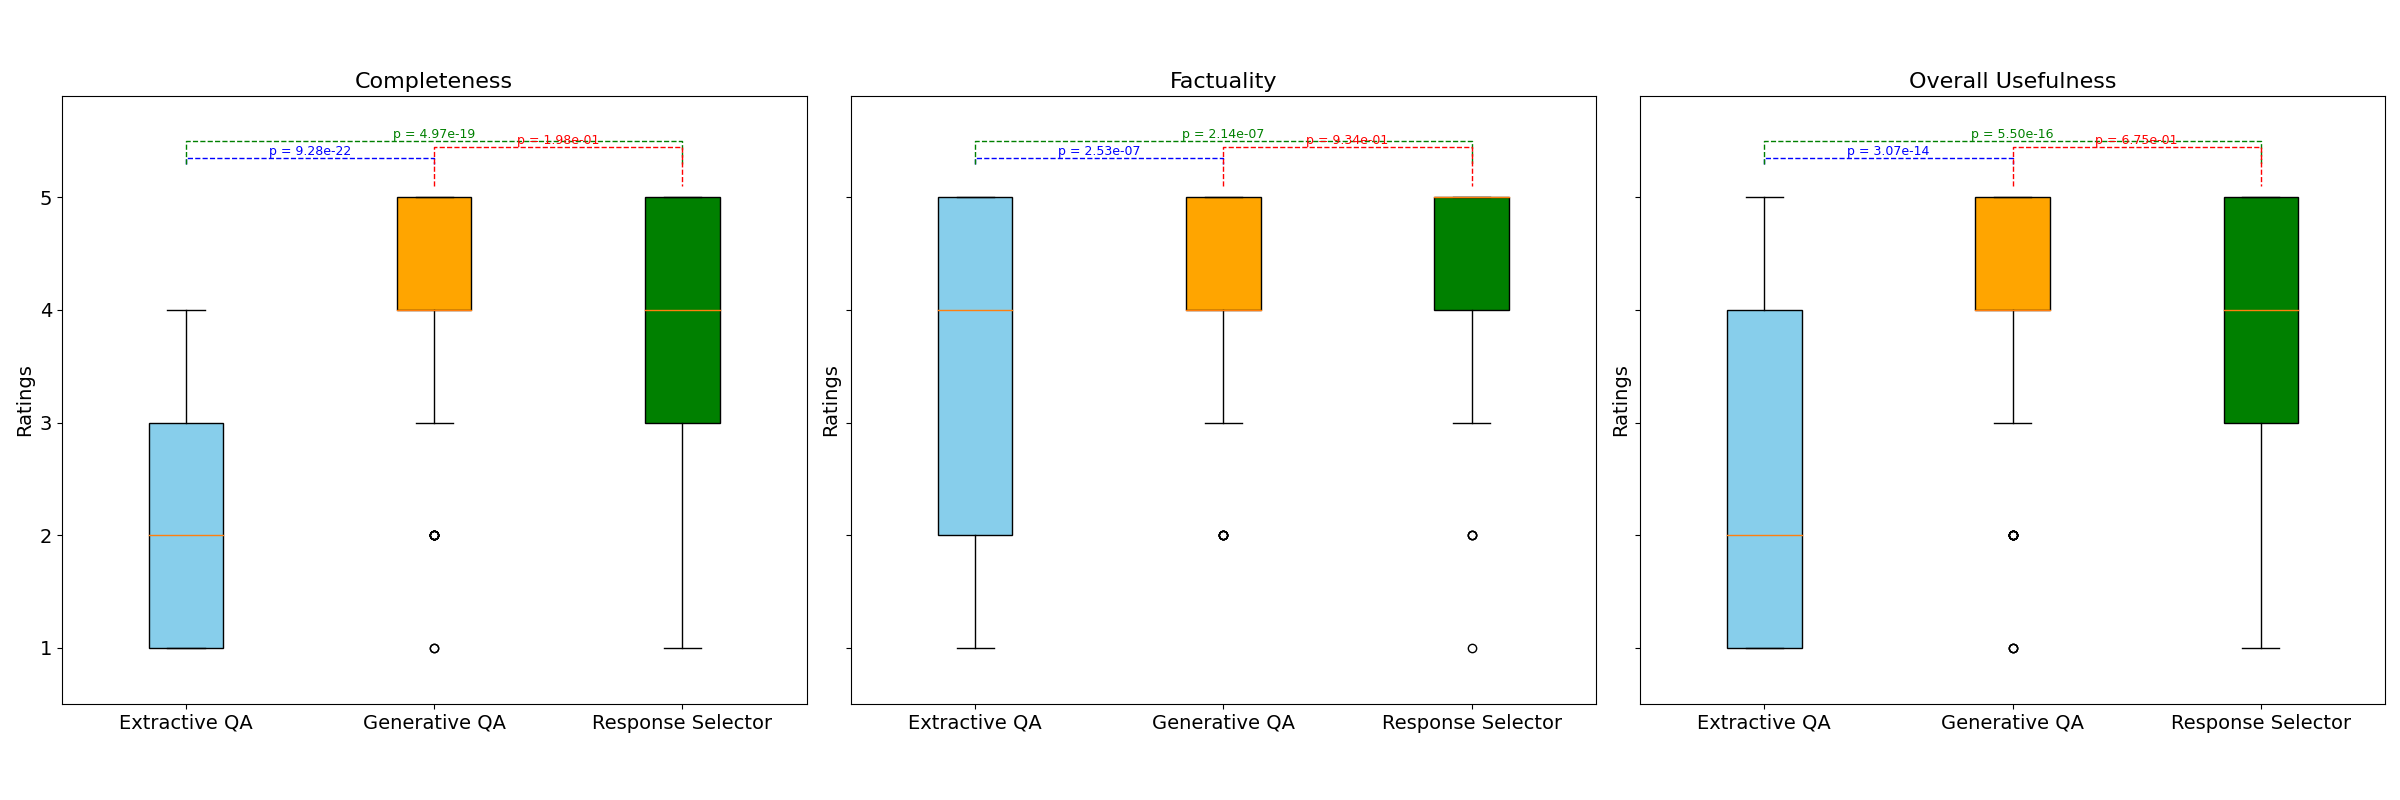
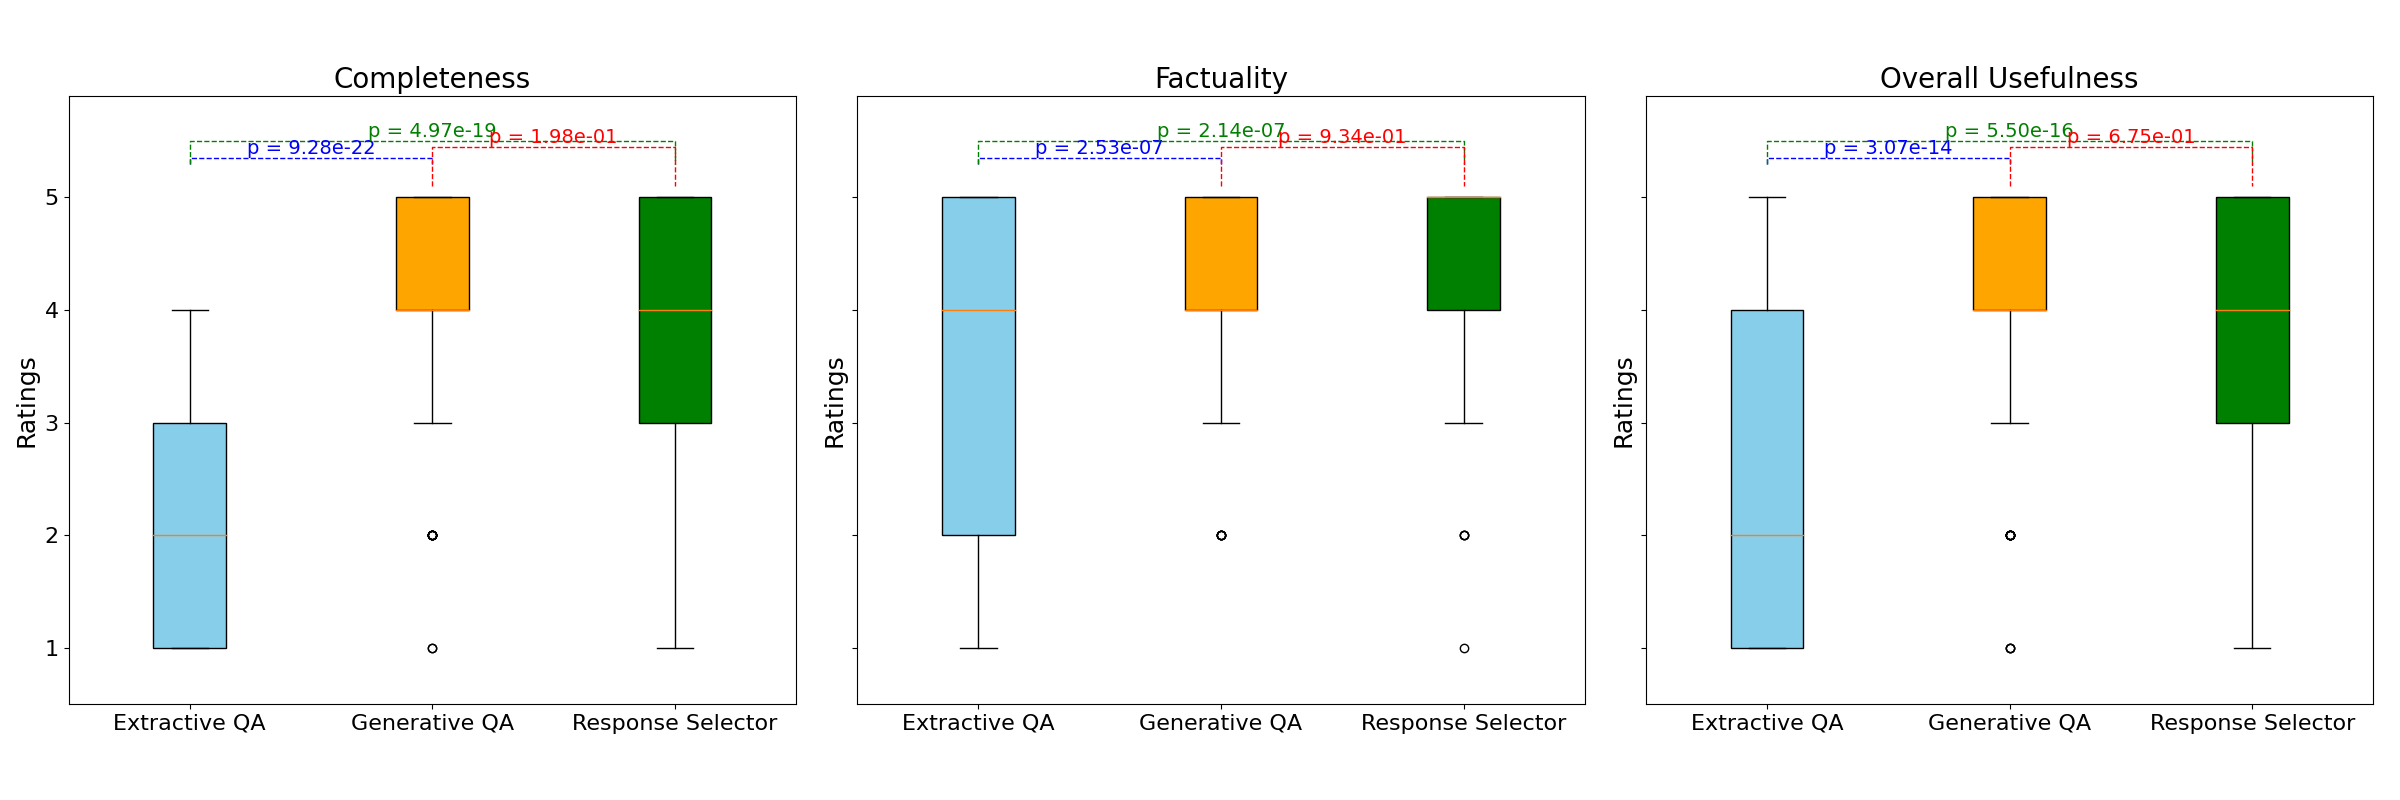
made plots bigger

diff --git a/analyze_results/visualize_results.py b/analyze_results/visualize_results.py
@@ -7,13 +7,13 @@ def load_result_file(filepath):
     return pd.read_csv(filepath)
 
 # Function to annotate p-values with vertical offsets to prevent overlap
-def annotate_p_values(axes, x1, x2, y, p_val, offset=0, line_color='black', text_color='black'):
+def annotate_p_values(axes, x1, x2, y, p_val, offset=0, line_color='black', text_color='black', fontsize=12):
     """Helper function to annotate p-values on the plot with adjustable offset and line color."""
     h = 0.05 + offset  # Adjust the height dynamically with offset
     line_style = {'lw': 1, 'color': line_color, 'linestyle': '--'}  # More discreet lines
     axes.plot([x1, x1, x2, x2], [y, y+h, y+h, y], **line_style)  # draw the line between boxplots
-    # annotate p-value, adjusting color
-    axes.text((x1+x2)*0.5, y+h, f'p = {p_val:.2e}', ha='center', va='bottom', color=text_color, fontsize=9)  # smaller font
+    # annotate p-value, adjusting color and font size
+    axes.text((x1+x2)*0.5, y+h, f'p = {p_val:.2e}', ha='center', va='bottom', color=text_color, fontsize=fontsize)  # Increased font size for p-value
 
 def plot_box_plots(df, category):
     # Filter data for the given category
@@ -57,28 +57,31 @@ def plot_box_plots(df, category):
 
         # Set title and labels with increased font size
         title = "Overall Usefulness" if aspect == "usefulness" else aspect.capitalize()
-        axes[i].set_title(f'{title}', fontsize=16)  # Increase title font size
-        axes[i].set_ylabel('Ratings', fontsize=14)  # Increase y-axis label font size
-        axes[i].tick_params(axis='both', which='major', labelsize=14)  # Increase tick label size
+        axes[i].set_title(f'{title}', fontsize=20)  # Further increase title font size
+        axes[i].set_ylabel('Ratings', fontsize=18)  # Increase y-axis label font size
+        axes[i].tick_params(axis='y', which='major', labelsize=16)  # Increase y-axis tick label size
+
+        # Set x-axis tick label size (system labels)
+        axes[i].tick_params(axis='x', labelsize=16)  # Increase x-axis tick label (system labels) font size
+
         axes[i].set_ylim(0.5, 5.9)  # Adjust y-axis to create more space (lower limit 0.5, upper limit 5.7)
 
         # Perform t-tests and annotate p-values
         if len(data_to_plot) >= 2:
             # Extractive vs Generative
             t_stat1, p_val1 = stats.ttest_ind(data_to_plot[0], data_to_plot[1])
-            annotate_p_values(axes[i], 1, 2, 5.3, p_val1, offset=0.0, line_color='blue', text_color='blue')
+            annotate_p_values(axes[i], 1, 2, 5.3, p_val1, offset=0.0, line_color='blue', text_color='blue', fontsize=14)
 
             # Extractive vs Response Selector (if present)
             if len(data_to_plot) == 3:
                 t_stat2, p_val2 = stats.ttest_ind(data_to_plot[0], data_to_plot[2])
                 t_stat3, p_val3 = stats.ttest_ind(data_to_plot[1], data_to_plot[2])
-                annotate_p_values(axes[i], 1, 3, 5.3, p_val2, offset=0.15, line_color='green', text_color='green')
-                annotate_p_values(axes[i], 2, 3, 5.1, p_val3, offset=0.3, line_color='red', text_color='red')
+                annotate_p_values(axes[i], 1, 3, 5.3, p_val2, offset=0.15, line_color='green', text_color='green', fontsize=14)
+                annotate_p_values(axes[i], 2, 3, 5.1, p_val3, offset=0.3, line_color='red', text_color='red', fontsize=14)
 
     plt.tight_layout(rect=[0, 0, 1, 0.95])  # Adjust layout with tighter spacing
     plt.subplots_adjust(top=0.88, bottom=0.12)  # More space on top and bottom
     plt.savefig(f"{category}_plot_with_pvalues_fixed.png")
-
 
 # Load and plot data
 df = load_result_file("./results_reports.csv")
